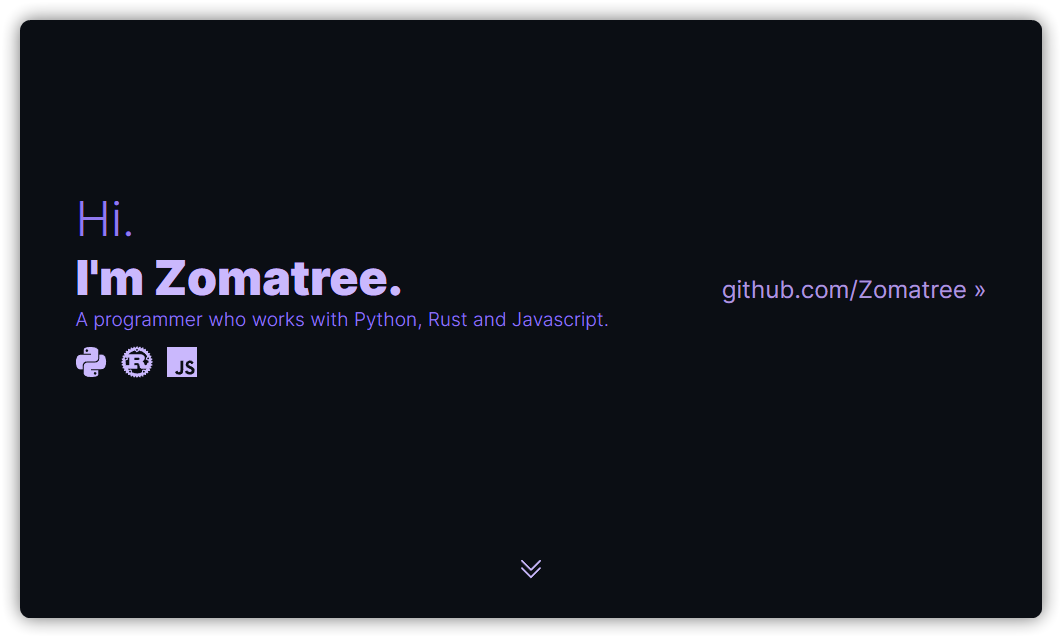
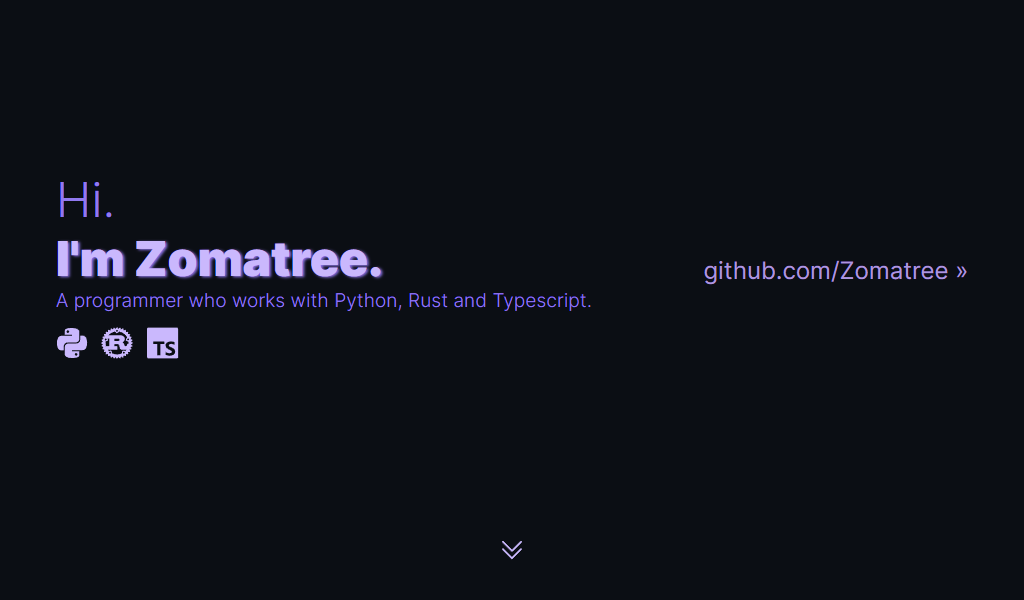
update site

Changed region(s): [[0.0, 0.0, 1.0, 1.0], [0.6562, 0.42, 0.9375, 0.48], [0.4688, 0.87, 0.5312, 0.93]]

diff --git a/src/routes/+page.svelte b/src/routes/+page.svelte
@@ -12,11 +12,14 @@
 </script>
 
 <svelte:head>
-    <meta property="og:description" content="👋 I'm a programmer who works with Python, Rust and Typescript.">
-    <meta property="og:image" content={ og_image }>
+    <meta property="og:description" name="og:description" content="👋 I'm a programmer who works with Python, Rust and Typescript.">
+    <meta property="description" name="description" content="👋 I'm a programmer who works with Python, Rust and Typescript.">
+    <meta property="og:image" name="og:image" content={ og_image }>
+    <meta property="og:title" name="og:title" content="Zomatree">
     <link rel="image_src" href= { og_image }>
-    <meta name="twitter:card" content="summary_large_image">
-    <meta name="description" content="I'm a programmer who works with Python, Rust and Typescript">
+    <meta property="twitter:card" name="twitter:card" content="summary_large_image">
+    <meta property="theme-color" name="theme-color" content="#e0d5ff">
+    <meta property="og:site_name" name="og:site_name" content="Zomatree">
 </svelte:head>
 
 <div class="main">
@@ -31,9 +34,10 @@
                     A programmer who works with Python, Rust and Typescript.
                 </div>
                 <div class="icon-row">
-                    <svg xmlns="http://www.w3.org/2000/svg" fill="var(--primary-3)" width=32 height=32 viewBox="0 0 32 32" version="1.1"><path d="M19.212 26.447l-0.287 0.412-0.1 0.512 0.1 0.512 0.287 0.412 0.412 0.287 0.512 0.1 0.512-0.1 0.412-0.287 0.287-0.412 0.1-0.512-0.1-0.512-0.287-0.412-0.412-0.287-0.512-0.1-0.512 0.1zM27.297 8.64l0.35 0.075 0.4 0.15 0.437 0.225 0.45 0.337 0.45 0.437 0.437 0.587 0.4 0.737 0.35 0.912 0.262 1.1 0.175 1.3 0.062 1.537-0.075 1.537-0.2 1.3-0.3 1.075-0.4 0.887-0.45 0.712-0.5 0.562-0.525 0.412-0.525 0.3-0.5 0.2-0.45 0.112-0.4 0.062-0.3 0.025-0.2-0.012h-10.272v1.025h7.298l0.012 3.449 0.025 0.45-0.062 0.425-0.137 0.387-0.212 0.362-0.312 0.312-0.387 0.3-0.475 0.25-0.55 0.212-0.637 0.187-0.725 0.162-0.8 0.112-0.887 0.087-0.962 0.050-1.050 0.012-1.587-0.050-1.337-0.175-1.125-0.25-0.912-0.312-0.737-0.375-0.562-0.412-0.425-0.425-0.312-0.425-0.2-0.412-0.125-0.375-0.050-0.312-0.025-0.25 0.012-0.162v-6.673l0.063-0.8 0.162-0.675 0.262-0.575 0.325-0.475 0.375-0.4 0.412-0.3 0.437-0.25 0.437-0.175 0.412-0.125 0.375-0.075 0.325-0.050 0.262-0.025 0.162-0.012h7.298l0.862-0.062 0.737-0.175 0.625-0.262 0.512-0.35 0.412-0.4 0.337-0.437 0.25-0.45 0.187-0.45 0.125-0.437 0.087-0.4 0.050-0.35 0.025-0.262v-3.824h2.612l0.175 0.012zM10.939 3.704l-0.287 0.412-0.1 0.512 0.1 0.512 0.287 0.425 0.412 0.275 0.512 0.112 0.512-0.113 0.412-0.275 0.287-0.425 0.1-0.512-0.1-0.512-0.287-0.412-0.412-0.275-0.512-0.112-0.512 0.112zM18.812 1.229l1.125 0.25 0.912 0.325 0.737 0.375 0.562 0.4 0.425 0.425 0.312 0.425 0.2 0.412 0.125 0.375 0.050 0.325 0.025 0.25-0.012 0.162v6.673l-0.062 0.787-0.162 0.687-0.262 0.575-0.325 0.475-0.375 0.387-0.412 0.312-0.437 0.237-0.437 0.175-0.412 0.125-0.375 0.087-0.325 0.050-0.263 0.025h-7.46l-0.862 0.062-0.737 0.175-0.625 0.275-0.512 0.337-0.412 0.4-0.337 0.437-0.25 0.45-0.187 0.462-0.125 0.437-0.087 0.4-0.050 0.337-0.025 0.262v3.824h-2.787l-0.262-0.037-0.35-0.087-0.4-0.15-0.437-0.225-0.45-0.325-0.45-0.45-0.437-0.575-0.4-0.737-0.35-0.912-0.262-1.1-0.175-1.312-0.062-1.537 0.075-1.524 0.2-1.3 0.3-1.087 0.4-0.887 0.45-0.712 0.5-0.55 0.525-0.412 0.525-0.3 0.5-0.2 0.45-0.125 0.4-0.062 0.3-0.012h0.2l0.075 0.012h10.197v-1.037h-7.298l-0.012-3.436-0.025-0.462 0.062-0.425 0.137-0.387 0.212-0.35 0.312-0.325 0.387-0.287 0.475-0.25 0.55-0.225 0.637-0.187 0.725-0.15 0.8-0.125 0.887-0.075 0.962-0.050 1.050-0.025 1.587 0.063z"/></svg>
-                    <svg xmlns="http://www.w3.org/2000/svg" fill="var(--primary-3)" width=32 height=32 viewBox="0 0 24 24" role="img"><path d="M23.687 11.709l-.995-.616a13.559 13.559 0 0 0-.028-.29l.855-.797a.344.344 0 0 0-.114-.571l-1.093-.409a8.392 8.392 0 0 0-.086-.282l.682-.947a.342.342 0 0 0-.223-.538l-1.152-.187a9.243 9.243 0 0 0-.139-.259l.484-1.063c.05-.108.039-.234-.027-.332s-.178-.156-.297-.152l-1.17.041a6.662 6.662 0 0 0-.185-.224l.269-1.139a.343.343 0 0 0-.412-.412l-1.139.269a13.847 13.847 0 0 0-.225-.185l.041-1.17a.34.34 0 0 0-.484-.324l-1.063.485c-.086-.047-.172-.094-.259-.139l-.188-1.153a.344.344 0 0 0-.538-.223l-.948.682a8.383 8.383 0 0 0-.282-.085L14.562.596a.344.344 0 0 0-.571-.114l-.797.856a9.18 9.18 0 0 0-.29-.028l-.616-.995a.342.342 0 0 0-.582 0l-.616.995c-.097.008-.194.018-.29.028l-.798-.856a.342.342 0 0 0-.571.114l-.409 1.093c-.095.027-.188.056-.282.085l-.947-.682a.344.344 0 0 0-.538.223l-.188 1.153a9.243 9.243 0 0 0-.259.139l-1.063-.485a.342.342 0 0 0-.484.324l.041 1.17c-.076.06-.151.122-.225.185l-1.139-.269a.343.343 0 0 0-.412.412l.268 1.139c-.062.074-.124.149-.184.224l-1.17-.041a.342.342 0 0 0-.324.484l.485 1.063a9.055 9.055 0 0 0-.139.259l-1.152.187a.344.344 0 0 0-.223.538l.682.947c-.03.094-.058.187-.086.282L.59 9.435a.344.344 0 0 0-.114.571l.855.797a9.18 9.18 0 0 0-.028.29l-.995.616a.34.34 0 0 0 0 .582l.995.616c.008.097.018.194.028.29l-.855.798a.342.342 0 0 0 .114.571l1.093.409c.027.095.056.189.086.282l-.682.947a.341.341 0 0 0 .224.538l1.152.187c.045.087.091.173.139.259l-.485 1.063a.342.342 0 0 0 .324.484l1.169-.041c.061.076.122.151.185.225l-.268 1.14a.342.342 0 0 0 .412.411l1.139-.268c.074.063.149.124.225.184l-.041 1.17a.34.34 0 0 0 .484.323l1.063-.484c.086.048.172.094.259.139l.188 1.152a.344.344 0 0 0 .538.224l.947-.682c.094.03.187.059.282.086l.409 1.093a.341.341 0 0 0 .571.114l.798-.855c.096.011.193.02.29.029l.616.995a.343.343 0 0 0 .582 0l.616-.995c.097-.009.194-.018.29-.029l.797.855a.344.344 0 0 0 .571-.114l.409-1.093c.095-.027.189-.056.282-.086l.947.682a.341.341 0 0 0 .538-.224l.188-1.152c.087-.045.173-.092.259-.139l1.063.484a.343.343 0 0 0 .484-.323l-.041-1.17c.076-.06.151-.121.224-.184l1.139.268a.343.343 0 0 0 .412-.411l-.268-1.14c.062-.074.124-.149.184-.225l1.17.041a.34.34 0 0 0 .324-.484l-.484-1.063c.047-.086.094-.172.139-.259l1.152-.187a.344.344 0 0 0 .223-.538l-.682-.947.086-.282 1.093-.409a.342.342 0 0 0 .114-.571l-.855-.798c.01-.096.02-.193.028-.29l.995-.616a.34.34 0 0 0 0-.582zm-6.659 8.253a.705.705 0 0 1 .295-1.379.705.705 0 1 1-.296 1.379zm-.338-2.286a.641.641 0 0 0-.762.494l-.353 1.648c-1.09.495-2.3.77-3.575.77a8.63 8.63 0 0 1-3.65-.804l-.353-1.648a.64.64 0 0 0-.762-.493l-1.455.312a8.615 8.615 0 0 1-.752-.887h7.08c.08 0 .134-.014.134-.087v-2.505c0-.073-.053-.087-.134-.087h-2.071v-1.588h2.24c.204 0 1.093.058 1.377 1.194.089.349.284 1.486.418 1.85.133.408.675 1.223 1.253 1.223h3.528a.74.74 0 0 0 .128-.013 8.68 8.68 0 0 1-.802.941l-1.489-.32zm-9.793 2.252a.705.705 0 1 1-.296-1.379.705.705 0 0 1 .296 1.379zM4.211 9.036a.705.705 0 1 1-1.288.572.705.705 0 0 1 1.288-.572zm-.825 1.957l1.516-.674a.642.642 0 0 0 .326-.848l-.312-.706h1.228v5.534H3.667a8.668 8.668 0 0 1-.28-3.307zm6.652-.537V8.825h2.924c.151 0 1.066.175 1.066.859 0 .568-.702.772-1.279.772h-2.711zm10.626 1.468c0 .216-.008.431-.024.643h-.889c-.089 0-.125.058-.125.146v.408c0 .961-.542 1.17-1.017 1.223-.452.051-.953-.189-1.015-.466-.267-1.5-.711-1.821-1.413-2.374.871-.553 1.777-1.369 1.777-2.461 0-1.179-.809-1.922-1.36-2.287-.773-.51-1.629-.612-1.86-.612H5.545a8.658 8.658 0 0 1 4.847-2.736l1.084 1.137a.64.64 0 0 0 .907.021l1.212-1.16a8.668 8.668 0 0 1 5.931 4.224l-.83 1.875a.644.644 0 0 0 .326.848l1.598.71c.028.284.042.57.042.861zm-9.187-9.482a.703.703 0 1 1 .972 1.019.705.705 0 0 1-.972-1.019zm8.237 6.628c.157-.356.573-.516.928-.358a.705.705 0 1 1-.929.359z"/></svg>
-                    <svg xmlns="http://www.w3.org/2000/svg" fill="var(--primary-3)" width=32 height=32 viewBox="0 0 32 32" version="1.1"><path d="M17.313 14.789h-2.809c0 2.422-0.011 4.829-0.011 7.254 0.033 0.329 0.051 0.712 0.051 1.099 0 0.81-0.081 1.601-0.236 2.365l0.013-0.076c-0.412 0.861-1.475 0.751-1.957 0.6-0.451-0.242-0.808-0.609-1.031-1.055l-0.006-0.014c-0.044-0.094-0.097-0.174-0.16-0.246l0.001 0.001-2.281 1.406c0.367 0.79 0.934 1.434 1.637 1.885l0.018 0.011c0.763 0.427 1.675 0.678 2.645 0.678 0.484 0 0.954-0.063 1.401-0.18l-0.038 0.009c0.988-0.248 1.793-0.89 2.254-1.744l0.009-0.019c0.359-0.914 0.566-1.973 0.566-3.080 0-0.388-0.026-0.77-0.075-1.145l0.005 0.044c0.015-2.567 0-5.135 0-7.722zM28.539 23.843c-0.219-1.368-1.11-2.518-3.753-3.59-0.92-0.431-1.942-0.731-2.246-1.425-0.063-0.158-0.099-0.341-0.099-0.532 0-0.124 0.015-0.244 0.044-0.359l-0.002 0.010c0.208-0.55 0.731-0.935 1.343-0.935 0.199 0 0.388 0.040 0.559 0.113l-0.009-0.004c0.552 0.19 0.988 0.594 1.215 1.112l0.005 0.013c1.292-0.845 1.292-0.845 2.193-1.406-0.216-0.369-0.459-0.689-0.734-0.977l0.002 0.002c-0.767-0.814-1.852-1.32-3.056-1.32-0.171 0-0.34 0.010-0.505 0.030l0.020-0.002-0.881 0.111c-0.856 0.194-1.587 0.639-2.133 1.252l-0.003 0.004c-0.535 0.665-0.859 1.519-0.859 2.449 0 1.279 0.613 2.415 1.56 3.131l0.010 0.007c1.706 1.275 4.2 1.555 4.519 2.755 0.3 1.462-1.087 1.931-2.457 1.762-0.957-0.218-1.741-0.83-2.184-1.652l-0.009-0.017-2.287 1.313c0.269 0.536 0.607 0.994 1.011 1.385l0.001 0.001c2.174 2.194 7.61 2.082 8.586-1.255 0.113-0.364 0.178-0.782 0.178-1.215 0-0.3-0.031-0.593-0.091-0.875l0.005 0.028zM1.004 1.004h29.991v29.991h-29.991z"/></svg>
+                    <svg xmlns="http://www.w3.org/2000/svg" fill="var(--primary-3)" width=32 height=32 viewBox="0 0 32 32"><path d="M19.212 26.447l-0.287 0.412-0.1 0.512 0.1 0.512 0.287 0.412 0.412 0.287 0.512 0.1 0.512-0.1 0.412-0.287 0.287-0.412 0.1-0.512-0.1-0.512-0.287-0.412-0.412-0.287-0.512-0.1-0.512 0.1zM27.297 8.64l0.35 0.075 0.4 0.15 0.437 0.225 0.45 0.337 0.45 0.437 0.437 0.587 0.4 0.737 0.35 0.912 0.262 1.1 0.175 1.3 0.062 1.537-0.075 1.537-0.2 1.3-0.3 1.075-0.4 0.887-0.45 0.712-0.5 0.562-0.525 0.412-0.525 0.3-0.5 0.2-0.45 0.112-0.4 0.062-0.3 0.025-0.2-0.012h-10.272v1.025h7.298l0.012 3.449 0.025 0.45-0.062 0.425-0.137 0.387-0.212 0.362-0.312 0.312-0.387 0.3-0.475 0.25-0.55 0.212-0.637 0.187-0.725 0.162-0.8 0.112-0.887 0.087-0.962 0.050-1.050 0.012-1.587-0.050-1.337-0.175-1.125-0.25-0.912-0.312-0.737-0.375-0.562-0.412-0.425-0.425-0.312-0.425-0.2-0.412-0.125-0.375-0.050-0.312-0.025-0.25 0.012-0.162v-6.673l0.063-0.8 0.162-0.675 0.262-0.575 0.325-0.475 0.375-0.4 0.412-0.3 0.437-0.25 0.437-0.175 0.412-0.125 0.375-0.075 0.325-0.050 0.262-0.025 0.162-0.012h7.298l0.862-0.062 0.737-0.175 0.625-0.262 0.512-0.35 0.412-0.4 0.337-0.437 0.25-0.45 0.187-0.45 0.125-0.437 0.087-0.4 0.050-0.35 0.025-0.262v-3.824h2.612l0.175 0.012zM10.939 3.704l-0.287 0.412-0.1 0.512 0.1 0.512 0.287 0.425 0.412 0.275 0.512 0.112 0.512-0.113 0.412-0.275 0.287-0.425 0.1-0.512-0.1-0.512-0.287-0.412-0.412-0.275-0.512-0.112-0.512 0.112zM18.812 1.229l1.125 0.25 0.912 0.325 0.737 0.375 0.562 0.4 0.425 0.425 0.312 0.425 0.2 0.412 0.125 0.375 0.050 0.325 0.025 0.25-0.012 0.162v6.673l-0.062 0.787-0.162 0.687-0.262 0.575-0.325 0.475-0.375 0.387-0.412 0.312-0.437 0.237-0.437 0.175-0.412 0.125-0.375 0.087-0.325 0.050-0.263 0.025h-7.46l-0.862 0.062-0.737 0.175-0.625 0.275-0.512 0.337-0.412 0.4-0.337 0.437-0.25 0.45-0.187 0.462-0.125 0.437-0.087 0.4-0.050 0.337-0.025 0.262v3.824h-2.787l-0.262-0.037-0.35-0.087-0.4-0.15-0.437-0.225-0.45-0.325-0.45-0.45-0.437-0.575-0.4-0.737-0.35-0.912-0.262-1.1-0.175-1.312-0.062-1.537 0.075-1.524 0.2-1.3 0.3-1.087 0.4-0.887 0.45-0.712 0.5-0.55 0.525-0.412 0.525-0.3 0.5-0.2 0.45-0.125 0.4-0.062 0.3-0.012h0.2l0.075 0.012h10.197v-1.037h-7.298l-0.012-3.436-0.025-0.462 0.062-0.425 0.137-0.387 0.212-0.35 0.312-0.325 0.387-0.287 0.475-0.25 0.55-0.225 0.637-0.187 0.725-0.15 0.8-0.125 0.887-0.075 0.962-0.050 1.050-0.025 1.587 0.063z"/></svg>
+                    <svg xmlns="http://www.w3.org/2000/svg" fill="var(--primary-3)" width=32 height=32 viewBox="0 0 24 24"><path d="M23.687 11.709l-.995-.616a13.559 13.559 0 0 0-.028-.29l.855-.797a.344.344 0 0 0-.114-.571l-1.093-.409a8.392 8.392 0 0 0-.086-.282l.682-.947a.342.342 0 0 0-.223-.538l-1.152-.187a9.243 9.243 0 0 0-.139-.259l.484-1.063c.05-.108.039-.234-.027-.332s-.178-.156-.297-.152l-1.17.041a6.662 6.662 0 0 0-.185-.224l.269-1.139a.343.343 0 0 0-.412-.412l-1.139.269a13.847 13.847 0 0 0-.225-.185l.041-1.17a.34.34 0 0 0-.484-.324l-1.063.485c-.086-.047-.172-.094-.259-.139l-.188-1.153a.344.344 0 0 0-.538-.223l-.948.682a8.383 8.383 0 0 0-.282-.085L14.562.596a.344.344 0 0 0-.571-.114l-.797.856a9.18 9.18 0 0 0-.29-.028l-.616-.995a.342.342 0 0 0-.582 0l-.616.995c-.097.008-.194.018-.29.028l-.798-.856a.342.342 0 0 0-.571.114l-.409 1.093c-.095.027-.188.056-.282.085l-.947-.682a.344.344 0 0 0-.538.223l-.188 1.153a9.243 9.243 0 0 0-.259.139l-1.063-.485a.342.342 0 0 0-.484.324l.041 1.17c-.076.06-.151.122-.225.185l-1.139-.269a.343.343 0 0 0-.412.412l.268 1.139c-.062.074-.124.149-.184.224l-1.17-.041a.342.342 0 0 0-.324.484l.485 1.063a9.055 9.055 0 0 0-.139.259l-1.152.187a.344.344 0 0 0-.223.538l.682.947c-.03.094-.058.187-.086.282L.59 9.435a.344.344 0 0 0-.114.571l.855.797a9.18 9.18 0 0 0-.028.29l-.995.616a.34.34 0 0 0 0 .582l.995.616c.008.097.018.194.028.29l-.855.798a.342.342 0 0 0 .114.571l1.093.409c.027.095.056.189.086.282l-.682.947a.341.341 0 0 0 .224.538l1.152.187c.045.087.091.173.139.259l-.485 1.063a.342.342 0 0 0 .324.484l1.169-.041c.061.076.122.151.185.225l-.268 1.14a.342.342 0 0 0 .412.411l1.139-.268c.074.063.149.124.225.184l-.041 1.17a.34.34 0 0 0 .484.323l1.063-.484c.086.048.172.094.259.139l.188 1.152a.344.344 0 0 0 .538.224l.947-.682c.094.03.187.059.282.086l.409 1.093a.341.341 0 0 0 .571.114l.798-.855c.096.011.193.02.29.029l.616.995a.343.343 0 0 0 .582 0l.616-.995c.097-.009.194-.018.29-.029l.797.855a.344.344 0 0 0 .571-.114l.409-1.093c.095-.027.189-.056.282-.086l.947.682a.341.341 0 0 0 .538-.224l.188-1.152c.087-.045.173-.092.259-.139l1.063.484a.343.343 0 0 0 .484-.323l-.041-1.17c.076-.06.151-.121.224-.184l1.139.268a.343.343 0 0 0 .412-.411l-.268-1.14c.062-.074.124-.149.184-.225l1.17.041a.34.34 0 0 0 .324-.484l-.484-1.063c.047-.086.094-.172.139-.259l1.152-.187a.344.344 0 0 0 .223-.538l-.682-.947.086-.282 1.093-.409a.342.342 0 0 0 .114-.571l-.855-.798c.01-.096.02-.193.028-.29l.995-.616a.34.34 0 0 0 0-.582zm-6.659 8.253a.705.705 0 0 1 .295-1.379.705.705 0 1 1-.296 1.379zm-.338-2.286a.641.641 0 0 0-.762.494l-.353 1.648c-1.09.495-2.3.77-3.575.77a8.63 8.63 0 0 1-3.65-.804l-.353-1.648a.64.64 0 0 0-.762-.493l-1.455.312a8.615 8.615 0 0 1-.752-.887h7.08c.08 0 .134-.014.134-.087v-2.505c0-.073-.053-.087-.134-.087h-2.071v-1.588h2.24c.204 0 1.093.058 1.377 1.194.089.349.284 1.486.418 1.85.133.408.675 1.223 1.253 1.223h3.528a.74.74 0 0 0 .128-.013 8.68 8.68 0 0 1-.802.941l-1.489-.32zm-9.793 2.252a.705.705 0 1 1-.296-1.379.705.705 0 0 1 .296 1.379zM4.211 9.036a.705.705 0 1 1-1.288.572.705.705 0 0 1 1.288-.572zm-.825 1.957l1.516-.674a.642.642 0 0 0 .326-.848l-.312-.706h1.228v5.534H3.667a8.668 8.668 0 0 1-.28-3.307zm6.652-.537V8.825h2.924c.151 0 1.066.175 1.066.859 0 .568-.702.772-1.279.772h-2.711zm10.626 1.468c0 .216-.008.431-.024.643h-.889c-.089 0-.125.058-.125.146v.408c0 .961-.542 1.17-1.017 1.223-.452.051-.953-.189-1.015-.466-.267-1.5-.711-1.821-1.413-2.374.871-.553 1.777-1.369 1.777-2.461 0-1.179-.809-1.922-1.36-2.287-.773-.51-1.629-.612-1.86-.612H5.545a8.658 8.658 0 0 1 4.847-2.736l1.084 1.137a.64.64 0 0 0 .907.021l1.212-1.16a8.668 8.668 0 0 1 5.931 4.224l-.83 1.875a.644.644 0 0 0 .326.848l1.598.71c.028.284.042.57.042.861zm-9.187-9.482a.703.703 0 1 1 .972 1.019.705.705 0 0 1-.972-1.019zm8.237 6.628c.157-.356.573-.516.928-.358a.705.705 0 1 1-.929.359z"/></svg>
+                    <!-- <svg xmlns="http://www.w3.org/2000/svg" fill="var(--primary-3)" width=32 height=32 viewBox="0 0 32 32" version="1.1"><path d="M17.313 14.789h-2.809c0 2.422-0.011 4.829-0.011 7.254 0.033 0.329 0.051 0.712 0.051 1.099 0 0.81-0.081 1.601-0.236 2.365l0.013-0.076c-0.412 0.861-1.475 0.751-1.957 0.6-0.451-0.242-0.808-0.609-1.031-1.055l-0.006-0.014c-0.044-0.094-0.097-0.174-0.16-0.246l0.001 0.001-2.281 1.406c0.367 0.79 0.934 1.434 1.637 1.885l0.018 0.011c0.763 0.427 1.675 0.678 2.645 0.678 0.484 0 0.954-0.063 1.401-0.18l-0.038 0.009c0.988-0.248 1.793-0.89 2.254-1.744l0.009-0.019c0.359-0.914 0.566-1.973 0.566-3.080 0-0.388-0.026-0.77-0.075-1.145l0.005 0.044c0.015-2.567 0-5.135 0-7.722zM28.539 23.843c-0.219-1.368-1.11-2.518-3.753-3.59-0.92-0.431-1.942-0.731-2.246-1.425-0.063-0.158-0.099-0.341-0.099-0.532 0-0.124 0.015-0.244 0.044-0.359l-0.002 0.010c0.208-0.55 0.731-0.935 1.343-0.935 0.199 0 0.388 0.040 0.559 0.113l-0.009-0.004c0.552 0.19 0.988 0.594 1.215 1.112l0.005 0.013c1.292-0.845 1.292-0.845 2.193-1.406-0.216-0.369-0.459-0.689-0.734-0.977l0.002 0.002c-0.767-0.814-1.852-1.32-3.056-1.32-0.171 0-0.34 0.010-0.505 0.030l0.020-0.002-0.881 0.111c-0.856 0.194-1.587 0.639-2.133 1.252l-0.003 0.004c-0.535 0.665-0.859 1.519-0.859 2.449 0 1.279 0.613 2.415 1.56 3.131l0.010 0.007c1.706 1.275 4.2 1.555 4.519 2.755 0.3 1.462-1.087 1.931-2.457 1.762-0.957-0.218-1.741-0.83-2.184-1.652l-0.009-0.017-2.287 1.313c0.269 0.536 0.607 0.994 1.011 1.385l0.001 0.001c2.174 2.194 7.61 2.082 8.586-1.255 0.113-0.364 0.178-0.782 0.178-1.215 0-0.3-0.031-0.593-0.091-0.875l0.005 0.028zM1.004 1.004h29.991v29.991h-29.991z"/></svg> -->
+                    <svg xmlns="http://www.w3.org/2000/svg" fill="var(--primary-3)" width=32 height=32 viewBox="0 0 27 26"><path d="m.98608 0h24.32332c.5446 0 .9861.436522.9861.975v24.05c0 .5385-.4415.975-.9861.975h-24.32332c-.544597 0-.98608-.4365-.98608-.975v-24.05c0-.538478.441483-.975.98608-.975zm13.63142 13.8324v-2.1324h-9.35841v2.1324h3.34111v9.4946h2.6598v-9.4946zm1.0604 9.2439c.4289.2162.9362.3784 1.5218.4865.5857.1081 1.2029.1622 1.8518.1622.6324 0 1.2331-.0595 1.8023-.1784.5691-.1189 1.0681-.3149 1.497-.5879s.7685-.6297 1.0187-1.0703.3753-.9852.3753-1.6339c0-.4703-.0715-.8824-.2145-1.2365-.1429-.3541-.3491-.669-.6186-.9447-.2694-.2757-.5925-.523-.9692-.7419s-.8014-.4257-1.2743-.6203c-.3465-.1406-.6572-.2771-.9321-.4095-.275-.1324-.5087-.2676-.7011-.4054-.1925-.1379-.3409-.2838-.4454-.4379-.1045-.154-.1567-.3284-.1567-.523 0-.1784.0467-.3392.1402-.4824.0935-.1433.2254-.2663.3959-.369s.3794-.1824.6269-.2392c.2474-.0567.5224-.0851.8248-.0851.22 0 .4523.0162.697.0486.2447.0325.4908.0825.7382.15.2475.0676.4881.1527.7218.2555.2337.1027.4495.2216.6475.3567v-2.4244c-.4015-.1514-.84-.2636-1.3157-.3365-.4756-.073-1.0214-.1095-1.6373-.1095-.6268 0-1.2207.0662-1.7816.1987-.5609.1324-1.0544.3392-1.4806.6203s-.763.6392-1.0104 1.0743c-.2475.4352-.3712.9555-.3712 1.5609 0 .7731.2268 1.4326.6805 1.9785.4537.546 1.1424 1.0082 2.0662 1.3866.363.146.7011.2892 1.0146.4298.3134.1405.5842.2865.8124.4378.2282.1514.4083.3162.5403.4946s.198.3811.198.6082c0 .1676-.0413.323-.1238.4662-.0825.1433-.2076.2676-.3753.373s-.3766.1879-.6268.2473c-.2502.0595-.5431.0892-.8785.0892-.5719 0-1.1383-.0986-1.6992-.2959-.5608-.1973-1.0805-.4933-1.5589-.8879z"></path></svg>
                 </div>
             </div>
             <a class="github-link" href="https://github.com/zomatree" target="_blank" rel="nooopener noreferrer">github.com/Zomatree »</a>
@@ -79,7 +83,7 @@
                 tag="Python Library"
                 tag_colour="#ffd342"
                 github_url="https://github.com/Zomatree/Spec"
-                description="Validation and serialization library for python which has support for advance features such as tagged enums, renaming and custom validation."
+                description="Validation and serialization library for python which has support for advance features like tagged enums, renaming and custom validation."
             />
             <ProjectCard
                 title="Zomatree.live"
@@ -90,10 +94,10 @@
                 description="My personal website to show my projects and my blog."
             />
             <ProjectCard
-                title="R"
+                title="Kine"
                 tag="Python Framework"
                 tag_colour="#3673a5"
-                github_url="https://github.com/zomatree/r"
+                github_url="https://github.com/zomatree/kine"
                 description="React-like agnostic GUI framework for Python to make reactive websites and desktop apps."
             />
             <ProjectCard
@@ -111,11 +115,36 @@
             Blog Posts
         </h1>
         <div class="grid">
-            <BlogCard title="Cake" href="/blog/cake" image={cake} alt="Slice of chocolate cake on white plate"/>
-            <BlogCard title="Cake" href="/blog/cake" image={cake} alt="Slice of chocolate cake on white plate"/>
-            <BlogCard title="Cake" href="/blog/cake" image={cake} alt="Slice of chocolate cake on white plate"/>
-            <BlogCard title="Cake" href="/blog/cake" image={cake} alt="Slice of chocolate cake on white plate"/>
-            <BlogCard title="Cake" href="/blog/cake" image={cake} alt="Slice of chocolate cake on white plate"/>
+            <BlogCard
+                title="Cake"
+                href="/blog/cake"
+                image={cake}
+                alt="Slice of chocolate cake on white plate"
+            />
+            <BlogCard
+                title="Cake"
+                href="/blog/cake"
+                image={cake}
+                alt="Slice of chocolate cake on white plate"
+            />
+            <BlogCard
+                title="Cake"
+                href="/blog/cake"
+                image={cake}
+                alt="Slice of chocolate cake on white plate"
+            />
+            <BlogCard
+                title="Cake"
+                href="/blog/cake"
+                image={cake}
+                alt="Slice of chocolate cake on white plate"
+            />
+            <BlogCard
+                title="Cake"
+                href="/blog/cake"
+                image={cake}
+                alt="Slice of chocolate cake on white plate"
+            />
         </div>
     </div>
 </div>

diff --git a/src/styles.scss b/src/styles.scss
@@ -151,10 +151,10 @@ body::-webkit-scrollbar {
 }
 
 .about-me-content {
-    max-width: 80%;
+    max-width: 60%;
     font-size: 1.3rem;
     text-align: center;
-    line-height: 130%;
+    line-height: 140%;
     margin: 0 auto;
 }
 
